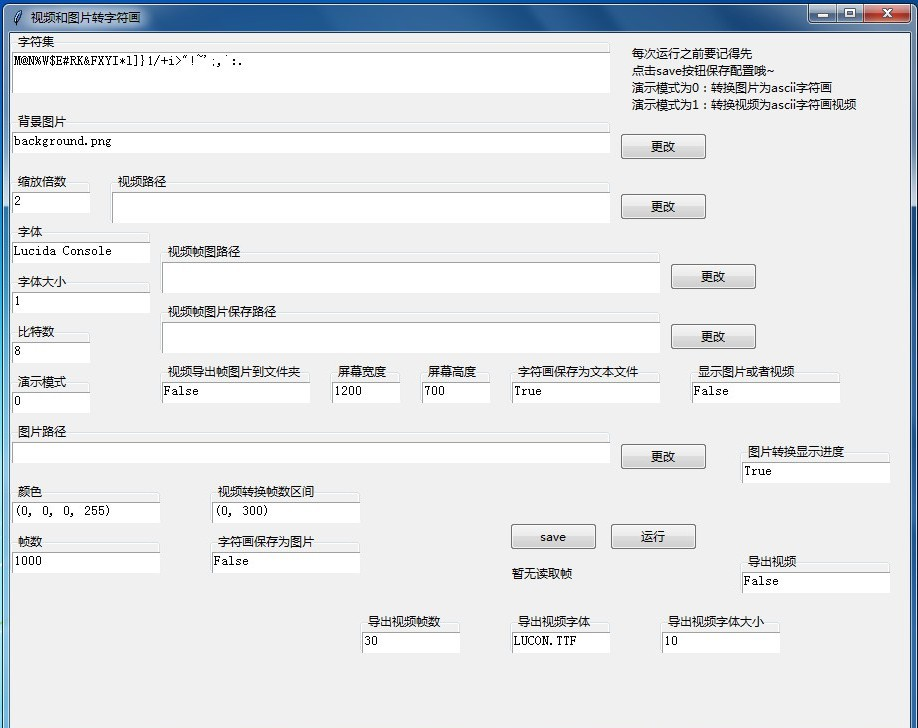
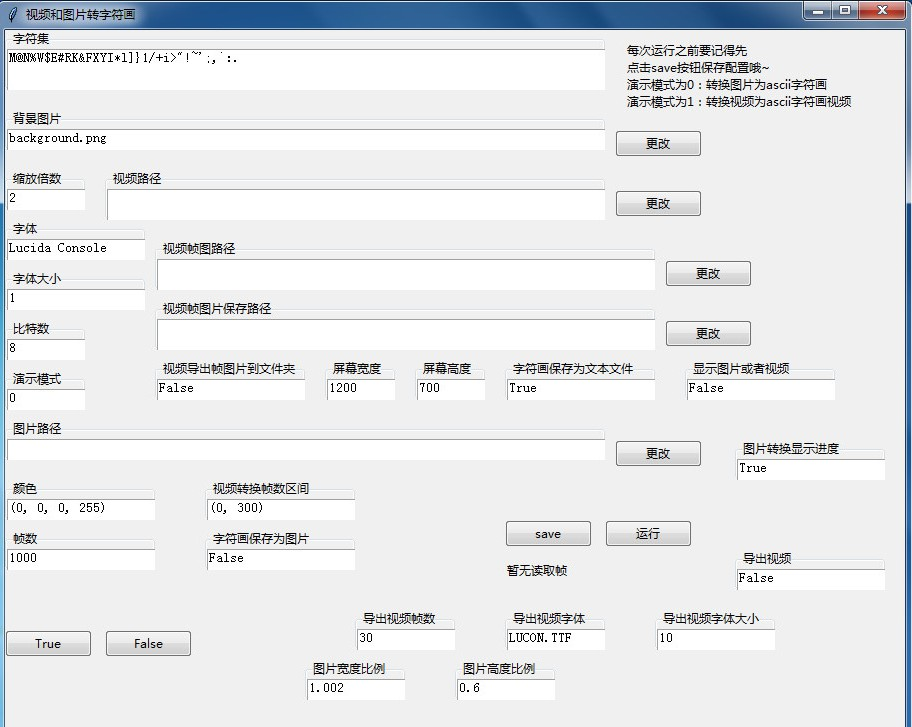
update

diff --git a/字符画转换器.py b/字符画转换器.py
@@ -48,6 +48,8 @@ class Root(Tk):
         self.set_value('导出视频帧数', 'fps', False, 100, 40, 350, 580)
         self.set_value('导出视频字体', 'font_path', True, 100, 40, 500, 580)
         self.set_value('导出视频字体大小', 'font_size', False, 120, 40, 650, 580)
+        self.set_value('图片宽度比例', 'width_resize', False, 100, 40, 300, 630)
+        self.set_value('图片高度比例', 'height_resize', False, 100, 40, 450, 630)
         self.save = ttk.Button(self, text="save", command=self.save_current)
         self.save.place(x=500, y=490)
         self.saved_text = ttk.Label(self, text='saved')
@@ -63,6 +65,27 @@ class Root(Tk):
             '每次运行之前要记得先\n点击save按钮保存配置哦~\n演示模式为0：转换图片为ascii字符画\n演示模式为1：转换视频为ascii字符画视频'
         )
         self.msg_label.place(x=620, y=10)
+        self.set_true_button = ttk.Button(self,
+                                          text='True',
+                                          command=lambda: self.insert_value(1),
+                                          takefocus=False)
+        self.set_false_button = ttk.Button(
+            self,
+            text='False',
+            command=lambda: self.insert_value(0),
+            takefocus=False)
+        self.set_true_button.place(x=0, y=600)
+        self.set_false_button.place(x=100, y=600)
+
+    def insert_value(self, value):
+        if value == 1:
+            value = 'True'
+        elif value == 0:
+            value = 'False'
+        current_focus = self.focus_get()
+        if 'text' in str(current_focus):
+            current_focus.delete('1.0', END)
+            current_focus.insert(END, value)
 
     def play(self):
         plays()
@@ -81,7 +104,10 @@ class Root(Tk):
                                      width=width,
                                      height=height)
         value_label.place(x=x1, y=y1)
-        value_entry = Text(value_label, height=10)
+        value_entry = Text(value_label,
+                           undo=True,
+                           autoseparators=True,
+                           maxundo=-1)
         before_value = str(eval(real_value))
         if before_value == 'None':
             before_value = ''
@@ -138,8 +164,8 @@ def plays():
         return 字符集[int(gray / unit)]
 
     def img_to_ascii(im, show_percentage=False):
-        WIDTH = int(im.width * 1.1 / 缩放倍数)
-        HEIGHT = int(im.height * 0.6 / 缩放倍数)
+        WIDTH = int(im.width * width_resize / 缩放倍数)
+        HEIGHT = int(im.height * height_resize / 缩放倍数)
         if show_percentage:
             whole_count = WIDTH * HEIGHT
             count = 0

diff --git a/config.py b/config.py
@@ -24,3 +24,5 @@
 fps = 30
 font_path = 'LUCON.TTF'
 font_size = 10
+width_resize = 1.002
+height_resize = 0.6
